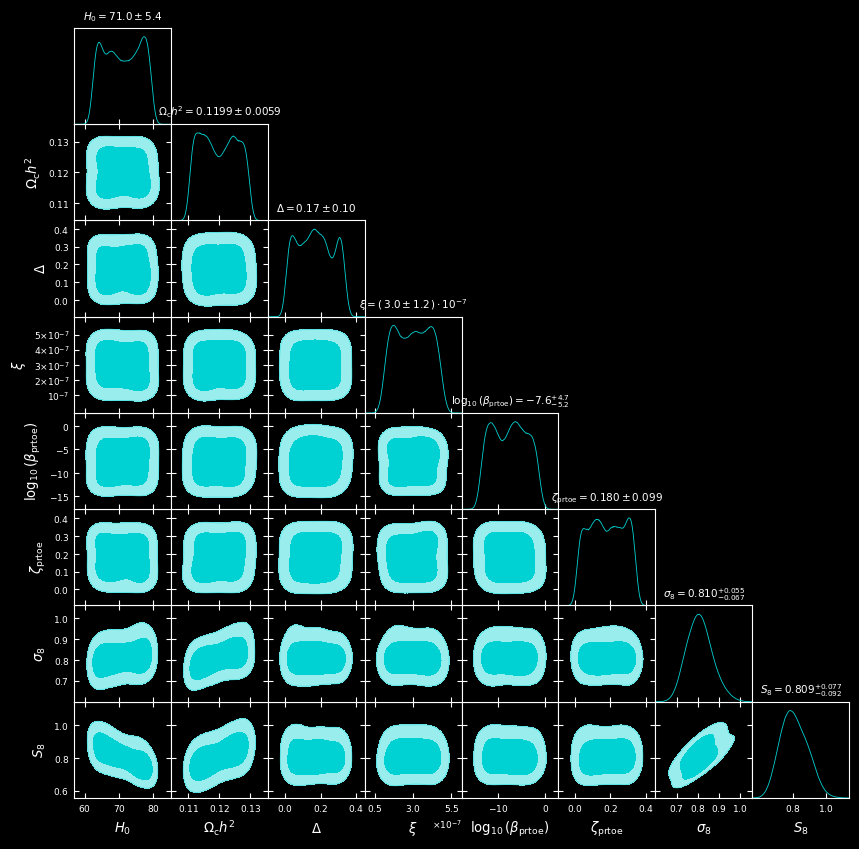
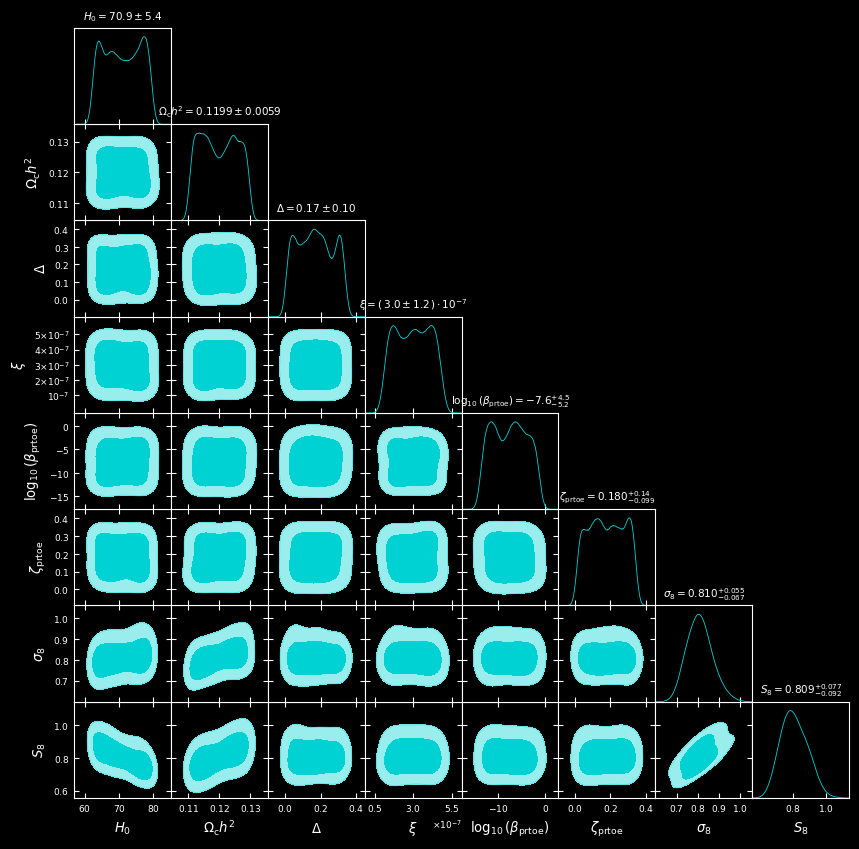
Add global HTTP Basic Authentication to protect dashboard on public tunnels

Changed region(s): [[0.6356, 0.5819, 0.7567, 0.6431], [0.454, 0.3675, 0.4843, 0.3981], [0.2421, 0.1531, 0.2724, 0.1837]]

diff --git a/scripts/cosmo_dashboard_backend.py b/scripts/cosmo_dashboard_backend.py
@@ -45,8 +45,30 @@ LOG_EVAL_POSITION = 0
 LOG_EVAL_COUNT = 0
 
 
+# --- HTTP Basic Authentication for Remote Security ---
+from fastapi.security import HTTPBasic, HTTPBasicCredentials
+from fastapi import Depends, status
+import secrets
+
+security = HTTPBasic()
+
+def authenticate(credentials: HTTPBasicCredentials = Depends(security)):
+    required_user = os.environ.get("DASHBOARD_USER", "TheMilkmanJ")
+    required_pass = os.environ.get("DASHBOARD_PASS", "Freemilk420!")
+    
+    correct_username = secrets.compare_digest(credentials.username, required_user)
+    correct_password = secrets.compare_digest(credentials.password, required_pass)
+    
+    if not (correct_username and correct_password):
+        raise HTTPException(
+            status_code=status.HTTP_401_UNAUTHORIZED,
+            detail="Incorrect username or password",
+            headers={"WWW-Authenticate": "Basic"},
+        )
+    return credentials.username
+
 # --- FastAPI App Setup ---
-app = FastAPI(title="CosmicDashboard Backend")
+app = FastAPI(title="CosmicDashboard Backend", dependencies=[Depends(authenticate)])
 
 # Allow all origins for local file:// access from the browser
 app.add_middleware(

diff --git a/README.md b/README.md
@@ -52,7 +52,10 @@ Since CosmicDashboard is built with responsive web layouts, you can securely mon
    ```bash
    npx localtunnel --port 8000
    ```
-3. **Open the Link:** It will output a private public URL (e.g., `https://cosmic-run-x.loca.lt`). Open this link in your phone's browser (Safari, Chrome, etc.) to view and control your run from anywhere in the world!
+3. **Open the Link & Authenticate:** It will output a public URL (e.g., `https://cosmic-run-x.loca.lt`). Open this link in your phone's browser (Safari, Chrome, etc.). The page is secured by HTTP Basic Authentication to prevent unauthorized access.
+   * **Default Username:** `TheMilkmanJ`
+   * **Default Password:** `Freemilk420!`
+   *(Note: You can customize these credentials by setting the `DASHBOARD_USER` and `DASHBOARD_PASS` environment variables on your host machine before launching the server).*
 
 ### Advanced Academic & Diagnostic Features:
 